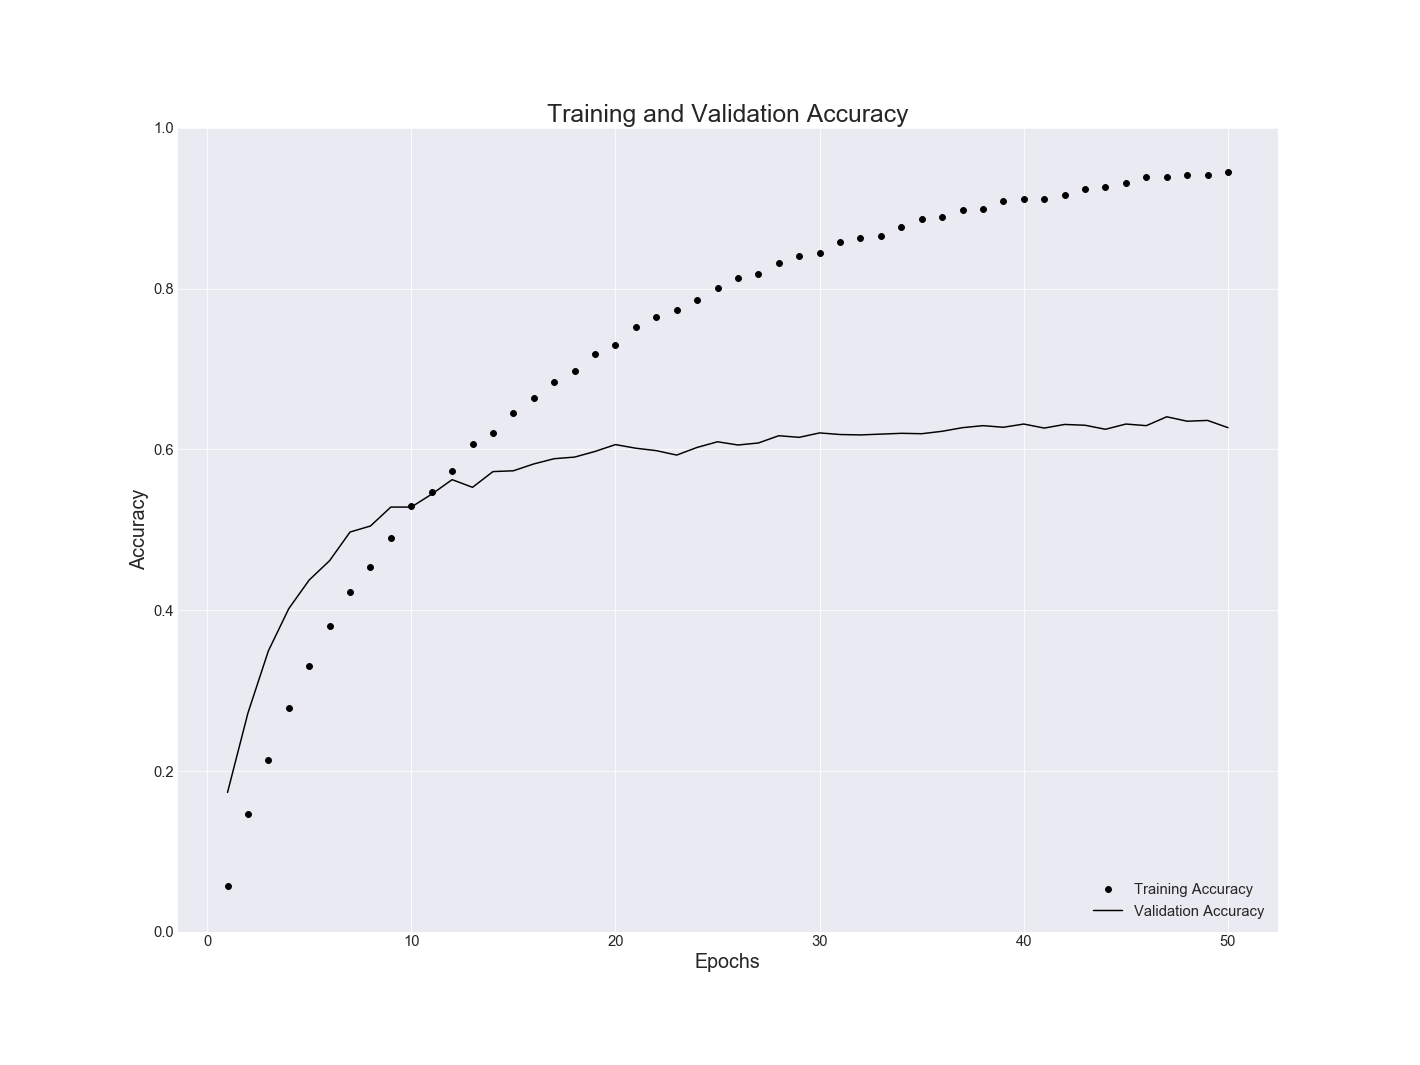
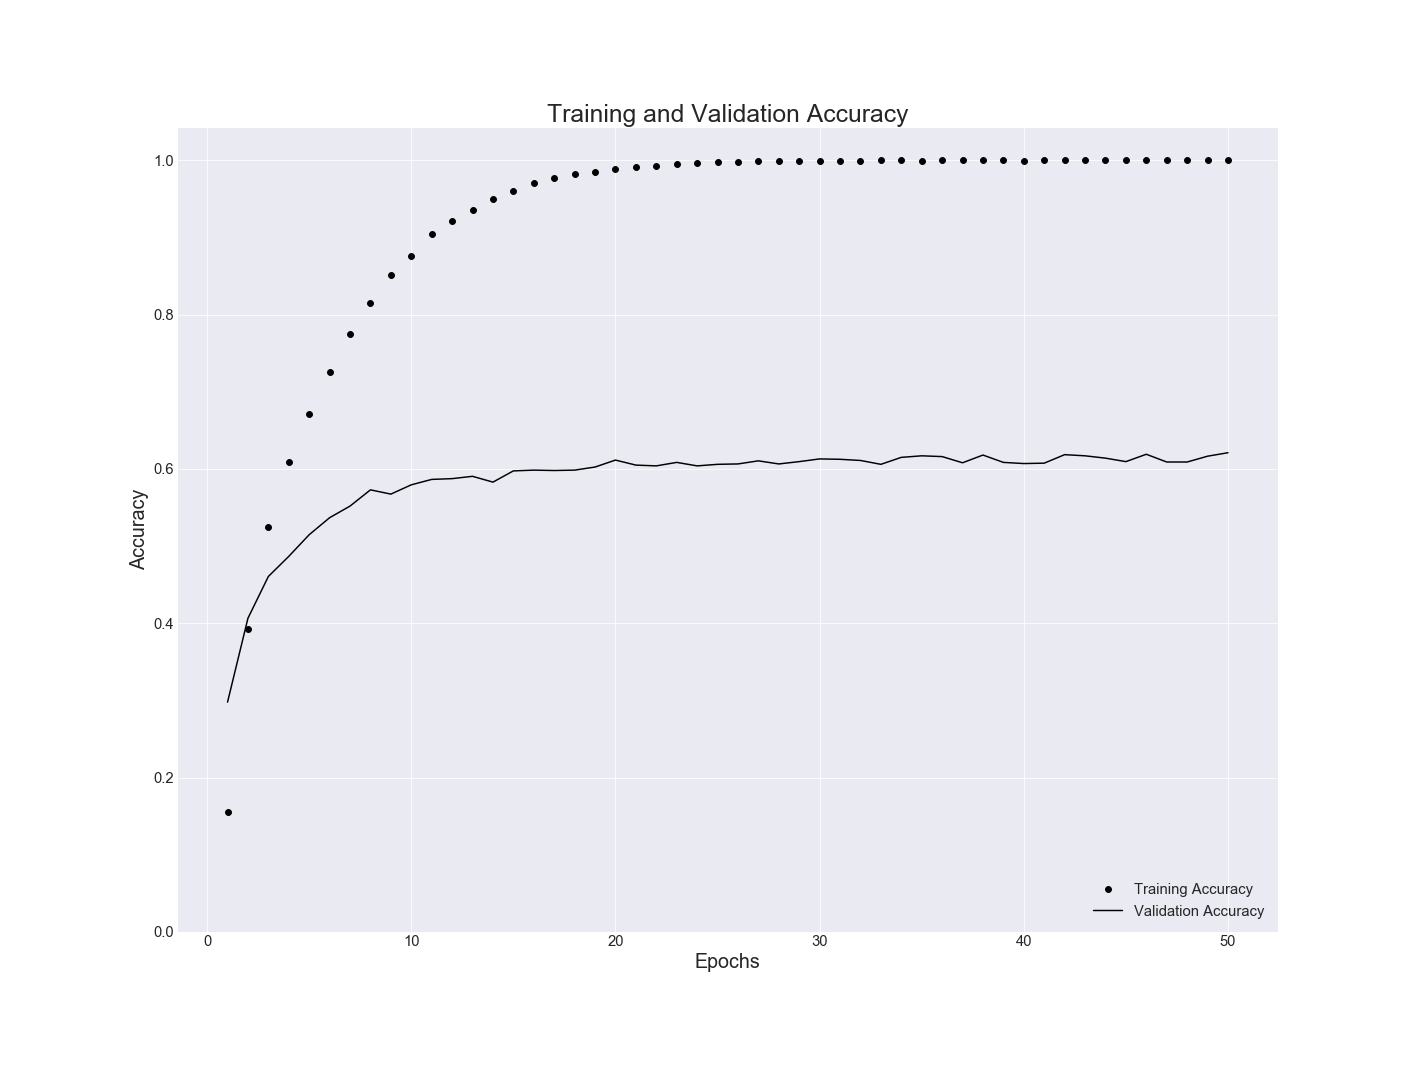
Try two more models

diff --git a/Modeling.py b/Modeling.py
@@ -110,14 +110,14 @@ print(time() - start_time)
 train_features = np.reshape(train_features, (num_train, np.prod(final_layer_shape)))
 validation_features = np.reshape(validation_features, (num_val, np.prod(final_layer_shape)))
 
-with open('./train_features', 'wb') as fp:
-    pickle.dump(train_features, fp)
-with open('./train_labels', 'wb') as fp:
-    pickle.dump(train_labels, fp)
-with open('./validation_features', 'wb') as fp:
-    pickle.dump(validation_features, fp)
-with open('./validation_labels', 'wb') as fp:
-    pickle.dump(validation_labels, fp)    
+#with open('./train_features', 'wb') as fp:
+#    pickle.dump(train_features, fp)
+#with open('./train_labels', 'wb') as fp:
+#    pickle.dump(train_labels, fp)
+#with open('./validation_features', 'wb') as fp:
+#    pickle.dump(validation_features, fp)
+#with open('./validation_labels', 'wb') as fp:
+#    pickle.dump(validation_labels, fp)    
 
 with open('./train_features', 'rb') as fp:
     train_features = pickle.load(fp)
@@ -136,7 +136,7 @@ from keras import optimizers
 np.random.seed(seed)
 model = models.Sequential()
 model.add(layers.Dense(256, activation='relu', input_dim=np.prod(final_layer_shape)))
-model.add(layers.Dropout(0.5))
+#model.add(layers.Dropout(0.5))
 model.add(layers.Dense(num_class, activation='softmax'))
 model.compile(optimizer=optimizers.RMSprop(lr=2e-5),
     loss='categorical_crossentropy',
@@ -185,6 +185,8 @@ plt.savefig('Loss_VGG19_1_layer_256.png')
 ###
 
 batch_size = 1
+times_augmentation = 4
+
 from keras.preprocessing.image import ImageDataGenerator
 from keras.applications import VGG19
 
@@ -195,6 +197,7 @@ conv_base = VGG19(weights='imagenet',
 conv_base.summary() # shape of last layer = (6, 8, 512) 
 final_layer_shape = [6, 8, 512]
 
+'''
 datagen = ImageDataGenerator(rescale=1./255)
 
 datagen_augmentation = ImageDataGenerator(
@@ -237,12 +240,230 @@ def extract_features_with_augmentation(directory, sample_count, batch_size, time
     return features, labels
 
 
+
 start_time = time()
 train_features, train_labels = extract_features_with_augmentation(train_dir, num_train, batch_size,
-                                                4) # 
+                                                times_augmentation) # 6035.708188533783s
 print(time() - start_time)
+'''
+
+#with open('./train_features_augmentation_40k', 'wb') as fp:
+#    pickle.dump(train_features, fp, protocol=4)
+#with open('./train_labels_augmentation_40k', 'wb') as fp:
+#    pickle.dump(train_labels, fp)
+
+with open('./train_features_augmentation_40k', 'rb') as fp:
+    train_features = pickle.load(fp)
+with open('./train_labels_augmentation_40k', 'rb') as fp:
+    train_labels = pickle.load(fp)
 
 with open('./validation_features', 'rb') as fp:
     validation_features = pickle.load(fp)
 with open('./validation_labels', 'rb') as fp:
     validation_labels = pickle.load(fp)    
+    
+np.random.seed(seed)
+augmentation_ind = np.random.choice(np.arange(num_train*times_augmentation),
+                                    num_train*times_augmentation, replace = False)
+
+train_features = train_features[augmentation_ind]
+train_labels = train_labels[augmentation_ind]
+
+train_features = np.reshape(train_features, (num_train*times_augmentation, np.prod(final_layer_shape)))
+validation_features = np.reshape(validation_features, (num_val, np.prod(final_layer_shape)))
+
+
+from keras import models
+from keras import layers
+from keras import optimizers
+
+np.random.seed(seed)
+model = models.Sequential()
+model.add(layers.Dense(256, activation='relu', input_dim=np.prod(final_layer_shape)))
+#model.add(layers.Dropout(0.5))
+model.add(layers.Dense(num_class, activation='softmax'))
+model.compile(optimizer=optimizers.RMSprop(lr=2e-5),
+    loss='categorical_crossentropy',
+    metrics=['acc'])
+history = model.fit(train_features, train_labels,
+    epochs=50,
+    batch_size=20,
+    validation_data=(validation_features, validation_labels))
+
+
+import matplotlib.pyplot as plt
+import seaborn as sns
+acc = history.history['acc']
+val_acc = history.history['val_acc']
+loss = history.history['loss']
+val_loss = history.history['val_loss']
+epochs = range(1, len(acc) + 1)
+
+sns.set_style("darkgrid")
+plt.figure(figsize=[20, 15])
+plt.rcParams['xtick.labelsize'] = 15
+plt.rcParams['ytick.labelsize'] = 15
+plt.plot(epochs, acc, 'ko', label='Training Accuracy')
+plt.plot(epochs, val_acc, 'k', label='Validation Accuracy')
+plt.yticks(np.linspace(0, 1, 6))
+plt.xticks(np.linspace(0, 50, 6))
+plt.title('Training and Validation Accuracy', fontsize=25)
+plt.xlabel('Epochs', fontsize=20)
+plt.ylabel('Accuracy', fontsize=20)
+plt.legend(loc=4, prop={'size': 15})
+plt.savefig('Accuracy_VGG19_Data_Augmentation_40k_1_layer_256.png')
+
+sns.set_style("darkgrid")
+plt.figure(figsize=[20, 15])
+plt.rcParams['xtick.labelsize'] = 15
+plt.rcParams['ytick.labelsize'] = 15
+plt.plot(epochs, loss, 'ko', label='Training Loss')
+plt.plot(epochs, val_loss, 'k', label='Validation Loss')
+plt.title('Training and Validation Loss', fontsize=25)
+plt.xlabel('Epochs', fontsize=20)
+plt.ylabel('Accuracy', fontsize=20)
+plt.legend(loc=0, prop={'size': 15})
+plt.savefig('Loss_VGG19_Data_Augmentation_40k_1_layer_256.png')
+
+
+###
+### Pretrained Model (VGG19) with Retraining the Block5 in VGG19
+###
+
+###
+batch_size = 1
+from keras.preprocessing.image import ImageDataGenerator
+from keras.applications import VGG19
+
+conv_base = VGG19(weights='imagenet',
+                  include_top=False,
+                  input_shape=(height, width, 3))
+
+conv_base_raw = VGG19(weights='imagenet',
+                  include_top=False,
+                  input_shape=(height, width, 3))
+
+for i in range(5):
+    conv_base.layers.pop()
+
+conv_base.outputs = [conv_base.layers[-1].output]
+conv_base.layers[-1].outbound_nodes = []
+
+conv_base.summary() # shape of last layer = (12, 16, 512) 
+final_layer_shape = [12, 16, 512]
+
+datagen = ImageDataGenerator(rescale=1./255)
+
+def extract_features(directory, sample_count, batch_size):
+    features = np.zeros(shape=([sample_count] + final_layer_shape))
+    labels = np.zeros(shape=(sample_count, num_class))
+    generator = datagen.flow_from_directory(
+        directory,
+        target_size=(height, width),
+        batch_size=batch_size,
+        class_mode='categorical')
+    i = 0
+    for inputs_batch, labels_batch in generator:
+        features_batch = conv_base.predict(inputs_batch)
+        features[i * batch_size : (i + 1) * batch_size] = features_batch
+        labels[i * batch_size : (i + 1) * batch_size] = labels_batch
+        i += 1
+        print(i)
+        if i * batch_size >= sample_count:
+            break
+    return features, labels
+
+start_time = time()
+train_features, train_labels = extract_features(train_dir, num_train, batch_size) # 1289.7562346458435s
+print(time() - start_time)
+
+start_time = time()
+validation_features, validation_labels = extract_features(val_dir, num_val, 1) # 257.6586627960205s
+print(time() - start_time)
+
+#train_features = np.reshape(train_features, (num_train, np.prod(final_layer_shape)))
+#validation_features = np.reshape(validation_features, (num_val, np.prod(final_layer_shape)))
+
+#with open('./train_features_without_block5', 'wb') as fp:
+#    pickle.dump(train_features, fp, protocol = 4)
+#with open('./train_labels_without_block5', 'wb') as fp:
+#    pickle.dump(train_labels, fp)
+#with open('./validation_features_without_block5', 'wb') as fp:
+#    pickle.dump(validation_features, fp)
+#with open('./validation_labels_without_block5', 'wb') as fp:
+#    pickle.dump(validation_labels, fp)    
+    
+with open('./train_features_without_block5', 'rb') as fp:
+    train_features = pickle.load(fp)
+with open('./train_labels_without_block5', 'rb') as fp:
+    train_labels = pickle.load(fp)
+with open('./validation_features_without_block5', 'rb') as fp:
+    validation_features = pickle.load(fp)
+with open('./validation_labels_without_block5', 'rb') as fp:
+    validation_labels = pickle.load(fp)    
+
+
+from keras import models
+from keras import layers
+from keras import optimizers
+
+#from keras.callbacks import EarlyStopping
+#early_stopping_monitor = EarlyStopping(monitor = 'acc', patience=5)
+
+np.random.seed(seed)
+model = models.Sequential()
+model.add(layers.ZeroPadding2D((1,1), input_shape=(12, 16, 512)))
+model.add(layers.Conv2D(512, (3, 3), activation='relu'))
+model.add(layers.ZeroPadding2D((1,1)))
+model.add(layers.Conv2D(512, (3, 3), activation='relu'))
+model.add(layers.ZeroPadding2D((1,1)))
+model.add(layers.Conv2D(512, (3, 3), activation='relu'))
+model.add(layers.ZeroPadding2D((1,1)))
+model.add(layers.Conv2D(512, (3, 3), activation='relu'))
+model.add(layers.MaxPooling2D((2,2), strides=(2,2)))
+model.add(layers.Flatten())
+model.add(layers.Dense(256, activation='relu', input_dim=np.prod(final_layer_shape)))
+#model.add(layers.Dropout(0.5))
+model.add(layers.Dense(num_class, activation='softmax'))
+model.compile(optimizer=optimizers.RMSprop(lr=2e-5),
+    loss='categorical_crossentropy',
+    metrics=['acc'])
+history = model.fit(train_features, train_labels,
+    epochs=30,
+    batch_size=20,
+    validation_data=(validation_features, validation_labels))
+
+import matplotlib.pyplot as plt
+import seaborn as sns
+acc = history.history['acc']
+val_acc = history.history['val_acc']
+loss = history.history['loss']
+val_loss = history.history['val_loss']
+epochs = range(1, len(acc) + 1)
+
+sns.set_style("darkgrid")
+plt.figure(figsize=[20, 15])
+plt.rcParams['xtick.labelsize'] = 15
+plt.rcParams['ytick.labelsize'] = 15
+plt.plot(epochs, acc, 'ko', label='Training Accuracy')
+plt.plot(epochs, val_acc, 'k', label='Validation Accuracy')
+plt.yticks(np.linspace(0, 1, 6))
+plt.xticks(np.linspace(0, 30, 4))
+plt.title('Training and Validation Accuracy', fontsize=25)
+plt.xlabel('Epochs', fontsize=20)
+plt.ylabel('Accuracy', fontsize=20)
+plt.legend(loc=4, prop={'size': 15})
+plt.savefig('Accuracy_VGG19_Retraining_Block5_1_layer_256.png')
+
+sns.set_style("darkgrid")
+plt.figure(figsize=[20, 15])
+plt.rcParams['xtick.labelsize'] = 15
+plt.rcParams['ytick.labelsize'] = 15
+plt.plot(epochs, loss, 'ko', label='Training Loss')
+plt.plot(epochs, val_loss, 'k', label='Validation Loss')
+plt.xticks(np.linspace(0, 30, 4))
+plt.title('Training and Validation Loss', fontsize=25)
+plt.xlabel('Epochs', fontsize=20)
+plt.ylabel('Accuracy', fontsize=20)
+plt.legend(loc=0, prop={'size': 15})
+plt.savefig('Loss_VGG19_Retraining_Block5_1_layer_256.png')

diff --git a/README.md b/README.md
@@ -4,16 +4,26 @@
 This project aims to build a deep learning model to accurately classify 55 different food with various sizes. For more information, please refer to this [site](https://deepanalytics.jp/compe/59)
 
 ## Data 
-1. Number of training set(.jpg): 11,995
+1. Number of training set(.jpg): 11,995 (Training: 10,000 & Validation: 1,995)
 2. Number of test set(.jpg): 3,937
 3. Number of classes: 55
 
 ## Methology 
 1. Transform the data with various sizes to (192, 256, 3)
-2. Use VGG19 pretrained for feature extraction
+2. Use VGG19 pretrained model for feature extraction
 3. Implement Data augmentation
+4. Retrain part of the layers of the VGG19 pretrained model
 
 ## Result
 
+### VGG19 Pretrained Model + 1 Layer Dense Model (256, ) 
 <img src="https://github.com/lwkuant/Side_project_Cookpad_Food_Classification/blob/master/Accuracy_VGG19_1_layer_256.png">
 <img src="https://github.com/lwkuant/Side_project_Cookpad_Food_Classification/blob/master/Loss_VGG19_1_layer_256.png">
+
+### VGG19 Pretrained Model + 1 Layer Dense Model (256, ) + Data Augmentation to 40,000 pictures
+<img src="https://github.com/lwkuant/Side_project_Cookpad_Food_Classification/blob/master/Accuracy_VGG19_Data_Augmentation_40k_1_layer_256.png">
+<img src="https://github.com/lwkuant/Side_project_Cookpad_Food_Classification/blob/master/Loss_VGG19_Data_Augmentation_40k_1_layer_256.png">
+
+### VGG19 Pretrained Model + Retrain Block 5 of VGG19 + 1 Layer Dense Model (256, )
+<img src="https://github.com/lwkuant/Side_project_Cookpad_Food_Classification/blob/master/Accuracy_VGG19_Retraining_Block5_1_layer_256.png">
+<img src="https://github.com/lwkuant/Side_project_Cookpad_Food_Classification/blob/master/Loss_VGG19_Retraining_Block5_1_layer_256.png">
